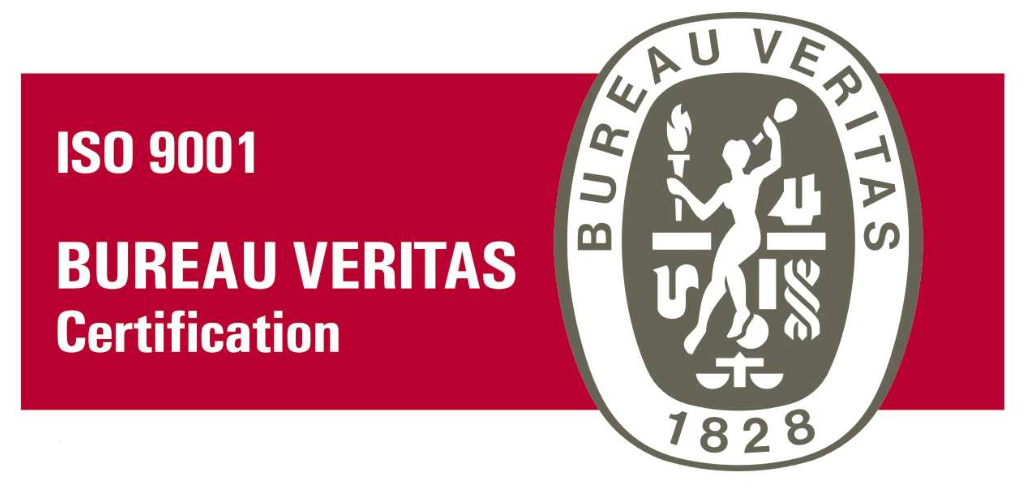
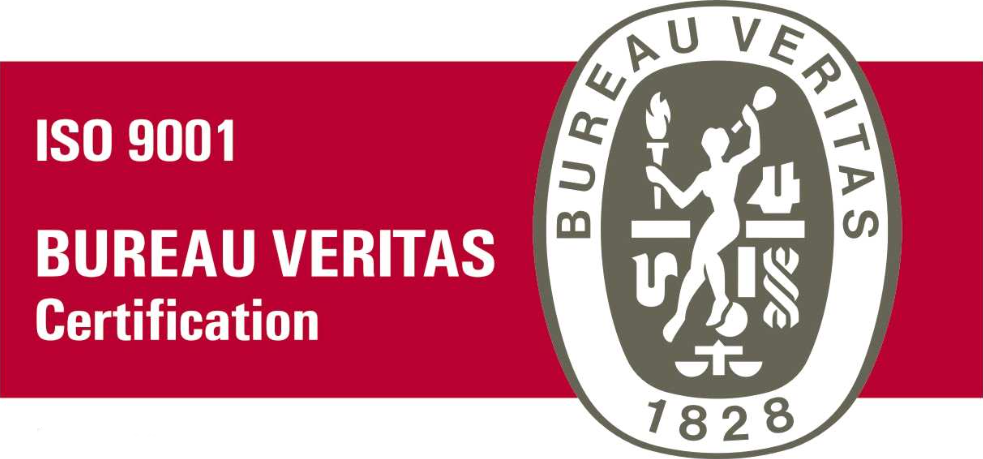
Cut certificate image and fix carousel js

diff --git a/public/js/clients-carousel.js b/public/js/clients-carousel.js
@@ -1,43 +1,43 @@
-const generalConfig = {
-  loop: false,
-  margin: 80,
-  nav: false,
-  dots: false,
-  stagePadding: 50,
-  responsive: {
-    0: {
-      items: 2,
+window.onload = function () {
+  const generalConfig = {
+    loop: false,
+    margin: 80,
+    nav: false,
+    dots: false,
+    stagePadding: 50,
+    responsive: {
+      0: {
+        items: 2,
+      },
+      300: {
+        items: 3,
+      },
+      600: {
+        items: 4,
+      },
+      1000: {
+        items: 6,
+      },
     },
-    300: {
-      items: 3,
+  };
+
+  const certificatesConfig = {
+    ...generalConfig,
+    responsive: {
+      0: {
+        items: 2,
+      },
+      300: {
+        items: 2,
+      },
+      600: {
+        items: 3,
+      },
+      1000: {
+        items: 4,
+      },
     },
-    600: {
-      items: 4,
-    },
-    1000: {
-      items: 6,
-    },
-  },
+  };
+  $(".owl-carousel").owlCarousel(generalConfig);
+  $(".owl-carousel-certificates").owlCarousel(certificatesConfig);
 };
-
-$(".owl-carousel").owlCarousel(generalConfig);
-
-const certificatesConfig = {
-  ...generalConfig,
-  responsive: {
-    0: {
-      items: 2,
-    },
-    300: {
-      items: 2,
-    },
-    600: {
-      items: 3,
-    },
-    1000: {
-      items: 4,
-    },
-  },
-};
-
-$(".owl-carousel-certificates").owlCarousel(certificatesConfig);
